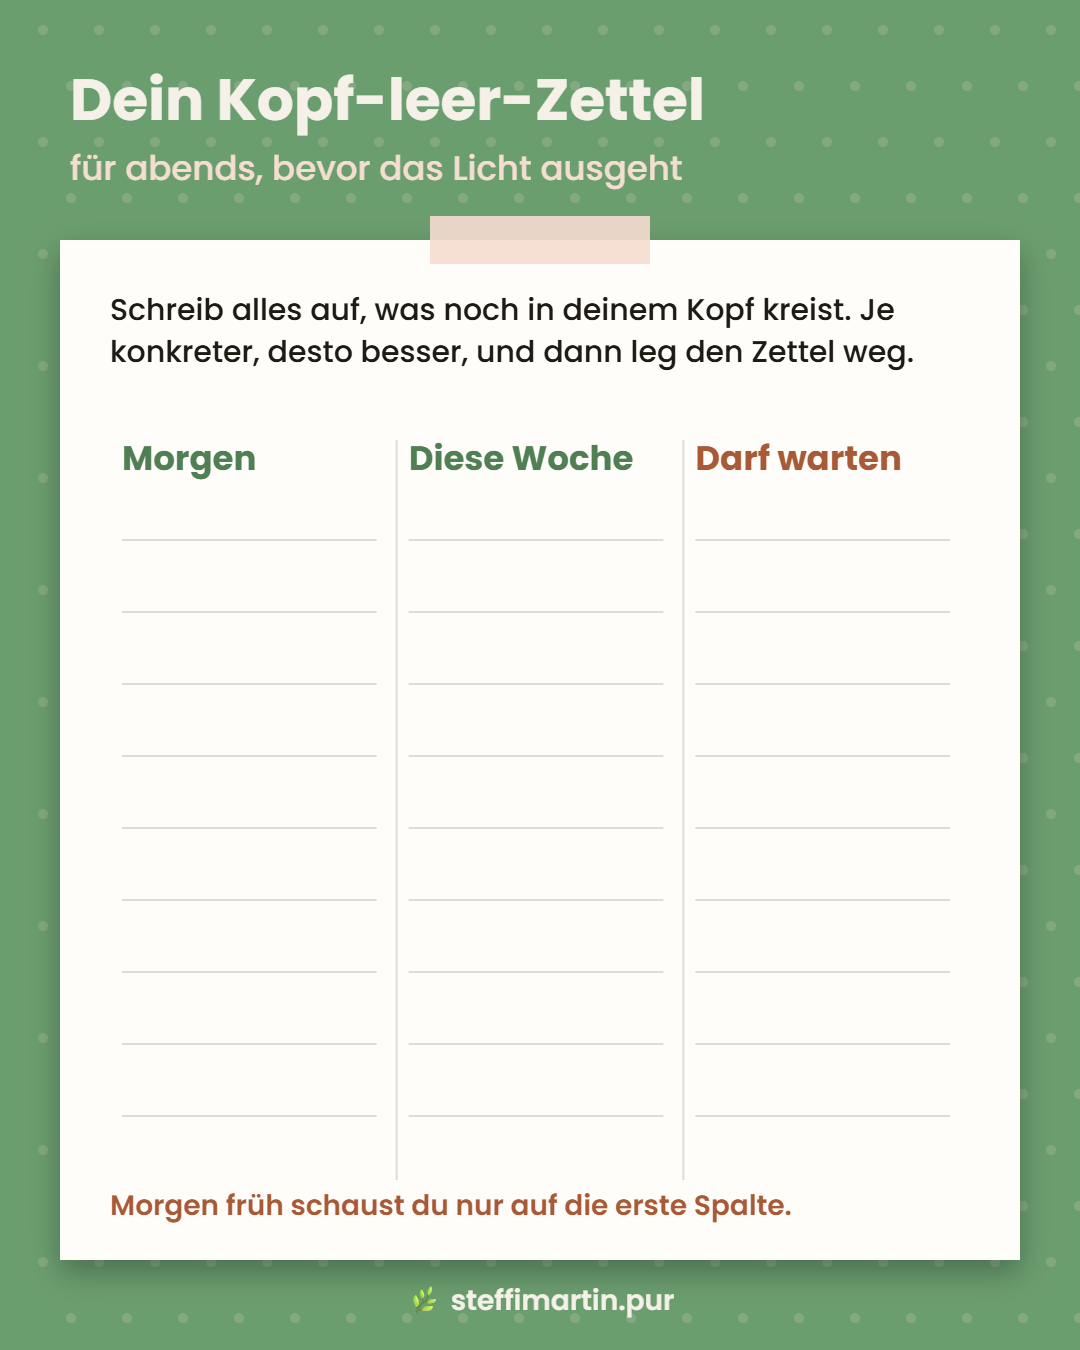
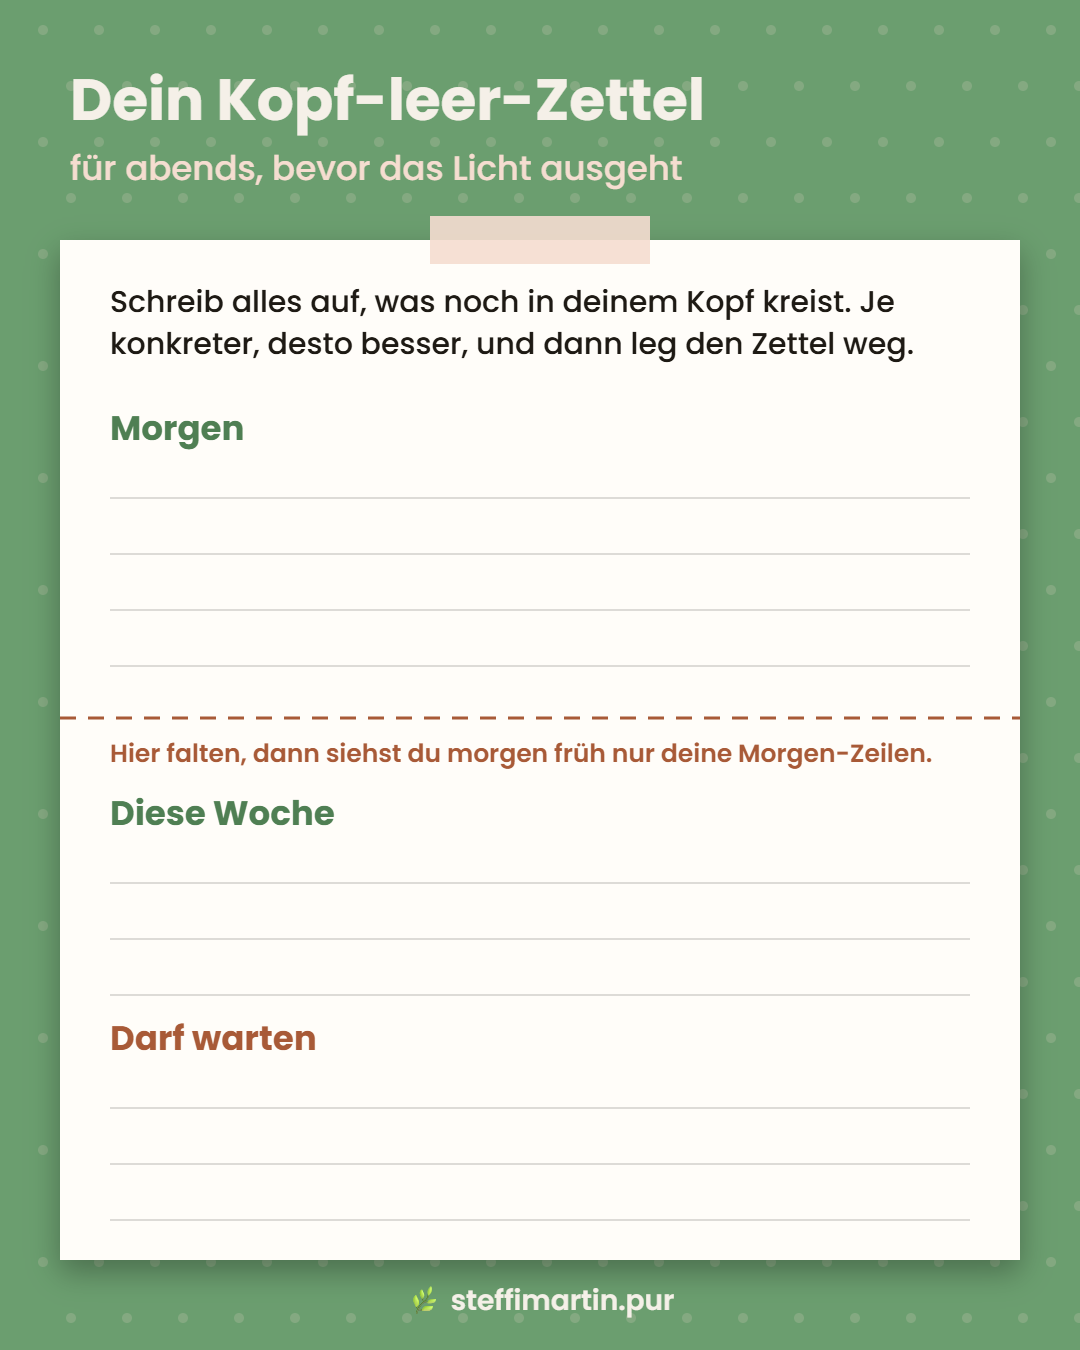
5-Minuten-Seite mit Warum-Abschnitten, Lieferkarten überarbeitet
Claude-Session: https://claude.ai/code/session_01L1QCDf8khhSqrmQoGRqyCH

diff --git a/5-minuten.html b/5-minuten.html
@@ -42,6 +42,8 @@ audio{display:block;width:100%;margin-bottom:14px}
 .weiter{border-left:5px solid var(--salbei);padding:4px 0 4px 14px;margin-top:16px}
 .btn{display:block;text-align:center;text-decoration:none;border-radius:16px;background:var(--terra-dk);color:#fff;font-size:16px;font-weight:600;padding:15px 18px;margin-top:14px}
 .btn:hover{background:#8f4c2e}
+.warum{margin-bottom:12px}
+.warum b{display:block;font-size:13px;letter-spacing:.5px;color:var(--salbei-dk);margin-bottom:2px}
 .leise summary{padding:14px 16px;min-height:0}
 .leise .titel{font-size:16px}
 .foot{text-align:center;font-size:13px;color:var(--muted);margin-top:22px}
@@ -75,6 +77,7 @@ audio{display:block;width:100%;margin-bottom:14px}
     <li>Jeden Tag bekommst du eine kleine Aufgabe für fünf Minuten.</li>
     <li>Zu jedem Tag kommt nach und nach ein kurzes Audio von mir dazu.</li>
     <li>Fang mit Tag 1 an und nimm dir dann jeden Tag den nächsten vor.</li>
+    <li>Wenn du mal einen Tag nicht schaffst, ist das völlig okay. Dann machst du einfach am nächsten weiter.</li>
   </ol>
 </section>
 
@@ -86,6 +89,7 @@ audio{display:block;width:100%;margin-bottom:14px}
     <img class="bild" loading="lazy" src="5min/tag1.jpg" alt="Wäscheständer auf der Veranda">
     <audio controls preload="none" data-audio=""></audio>
     <p>Heute schaust du einfach mal hin, wo deine freien Minuten eigentlich hingehen.</p>
+    <p class="warum"><b>WARUM DAS?</b>Du musst heute noch gar nichts ändern. Erst wenn du siehst, wo deine Minuten hingehen, kannst du entscheiden, ob sie dort bleiben sollen.</p>
     <div class="aufgabe"><b>DEINE FÜNF MINUTEN</b><p>Schreib heute Abend auf, was du alles „noch eben mal fix“ gemacht hast. Die Wäsche, die Spülmaschine, die Nachricht an die Kita, alles darf drauf.</p></div>
     <p class="vonmir"><b>Von mir:</b> Ich bin quasi schon morgens aufgestanden mit gefühlt 1000 To-Dos.</p>
   </div>
@@ -97,6 +101,7 @@ audio{display:block;width:100%;margin-bottom:14px}
     <img class="bild" loading="lazy" style="object-position:50% 47%" src="5min/tag2.jpg" alt="Steffi schreibt auf der Gartenschaukel in ihr Notizbuch">
     <audio controls preload="none" data-audio=""></audio>
     <p>Abends im Bett rattert dir der Kopf? Dann kommt heute mal alles da raus.</p>
+    <p class="warum"><b>WARUM DAS?</b>Dein Kopf geht alles immer wieder durch, damit auch ja nichts vergessen wird. Wenn es auf dem Zettel steht, ist es raus aus dem Kopf, aber eben nicht weg. Und morgen früh kannst du in Ruhe draufschauen, was davon wirklich dran ist.</p>
     <div class="aufgabe"><b>DEINE FÜNF MINUTEN</b><p>Nimm dir heute Abend einen Zettel oder dein Handy und schreib alles auf, was noch in deinem Kopf kreist: Termine, Brotdosen, was noch ansteht. Du schreibst es einfach runter, ganz ohne Ordnung.</p></div>
     <p class="vonmir"><b>Von mir:</b> Wenn ich merke, dass der Kopf rattert, dann habe ich mir angewöhnt, das einfach alles aufzuschreiben, damit es eben aus dem Kopf raus, aber nicht vergessen ist. Das hilft tatsächlich sehr gut.</p>
   </div>
@@ -108,6 +113,7 @@ audio{display:block;width:100%;margin-bottom:14px}
     <img class="bild" loading="lazy" src="5min/tag3.jpg" alt="Tasse Kakao mit einem Smiley aus Kakaopulver">
     <audio controls preload="none" data-audio=""></audio>
     <p>Heute wird's vielleicht ein bisschen ungewohnt.</p>
+    <p class="warum"><b>WARUM DAS?</b>Es wird nie alles erledigt sein. Wenn du mit deiner Pause wartest, bis es so weit ist, wartest du ewig. Und falls das schlechte Gewissen dabei mitkommt: Manchmal habe ich es immer noch, aber manchmal mache ich es auch trotzdem.</p>
     <div class="aufgabe"><b>DEINE FÜNF MINUTEN</b><p>Such dir heute ein einziges „noch eben mal fix“ aus und lass es bewusst und ohne schlechtes Gewissen liegen. Die fünf Minuten, die dabei frei werden, gehören dir. Setz dich hin und trink in Ruhe deinen Kaffee, oder schau einfach mal aus dem Fenster.</p></div>
     <p class="vonmir"><b>Von mir:</b> Ich bin ein Workaholic gewesen und ja, manchmal auch immer noch. Und wenn ich Sachen einfach mal liegen gelassen habe, hatte ich immer sehr schnell ein schlechtes Gewissen.</p>
   </div>
@@ -119,6 +125,7 @@ audio{display:block;width:100%;margin-bottom:14px}
     <img class="bild" loading="lazy" src="5min/tag4.jpg" alt="Sonnenaufgang über dem Garten">
     <audio controls preload="none" data-audio=""></audio>
     <p>Heute nimmst du dir ein paar Minuten, bevor der Tag dich hat.</p>
+    <p class="warum"><b>WARUM DAS?</b>Wenn der Tag erstmal läuft, bleibt meistens keine Minute mehr übrig. Für mich sind diese paar Minuten meine Notbremse, um nicht direkt mit Motzen, Meckern und schlechter Laune zu starten. Und sie müssen nicht perfekt sein.</p>
     <div class="aufgabe"><b>DEINE FÜNF MINUTEN</b><p>Nimm dir morgens, bevor alles losgeht, ein paar Minuten. Atme einmal tief durch, schreib drei Dinge auf, wofür du heute dankbar bist, und leg dir einen Fokus für den Tag fest.</p></div>
     <p class="vonmir"><b>Von mir:</b> Ich habe für mich das als Ritual festgestellt, ich nehme mir das morgens einfach, bevor die Kinder auch wach werden, um gut in den Tag zu starten, weil es einfach meine Laune auch besser macht und mir direkt etwas Positives am Morgen vor Augen führt.</p>
   </div>
@@ -130,6 +137,7 @@ audio{display:block;width:100%;margin-bottom:14px}
     <img class="bild" loading="lazy" style="object-position:50% 33%" src="5min/tag5.jpg" alt="Steffi cremt sich vor dem Spiegel das Gesicht ein">
     <audio controls preload="none" data-audio=""></audio>
     <p>Heute geht es um einen kleinen Moment nur für dich.</p>
+    <p class="warum"><b>WARUM DAS?</b>Für alle anderen nimmst du dir ganz selbstverständlich Zeit. Heute kommst du mal zuerst dran, ganz ohne großen Aufwand.</p>
     <div class="aufgabe"><b>DEINE FÜNF MINUTEN</b><p>Nimm dir heute fünf Minuten nur für deine Pflege, mit dem, was du eh schon da hast. Trag dir in Ruhe deine Gesichtscreme auf, oder creme dir mal ganz bewusst die Hände oder die Füße ein. Und schau dabei mal nicht aufs Handy.</p></div>
     <p class="vonmir"><b>Von mir:</b> Freie Minuten verbringe ich tatsächlich auch einfach mal mit meiner Pflegeroutine, um mir mal was zu gönnen, anstatt wieder irgendwelche Aufgaben zu erledigen.</p>
   </div>
@@ -141,6 +149,7 @@ audio{display:block;width:100%;margin-bottom:14px}
     <img class="bild" loading="lazy" style="object-position:50% 28%" src="5min/tag6.jpg" alt="Steffi sitzt lachend auf einer Holzbank">
     <audio controls preload="none" data-audio=""></audio>
     <p>Heute darf etwas einfacher werden.</p>
+    <p class="warum"><b>WARUM DAS?</b>Du musst nicht alles allein und nicht alles perfekt machen. Auf dich zu gucken gehört auch dazu, das darfst du dir ruhig erlauben.</p>
     <div class="aufgabe"><b>DEINE FÜNF MINUTEN</b><p>Überleg dir eine Sache von deiner Liste, die heute nicht perfekt sein muss. Vielleicht reicht ein schnelles Abendessen, oder die Wäsche wartet bis morgen. Und wenn es jemanden gibt, der dir etwas abnehmen kann, frag ruhig mal nach.</p></div>
     <p class="vonmir"><b>Von mir:</b> Wenn mein Akku leer ist, kann ich auch niemand anderem mehr helfen. Deshalb ist es wichtig, auf mich zu gucken.</p>
   </div>
@@ -152,6 +161,7 @@ audio{display:block;width:100%;margin-bottom:14px}
     <img class="bild" loading="lazy" style="object-position:50% 37%" src="5min/tag7.jpg" alt="Steffi mit Hund auf dem Feldweg">
     <audio controls preload="none" data-audio=""></audio>
     <p>Das waren jetzt sieben kleine Momente. Welcher hat dir am besten getan?</p>
+    <p class="warum"><b>WARUM DAS?</b>Ein kleiner Moment, der wirklich in deinen Alltag passt, reicht völlig. Und wenn du diese Woche auch nur einen davon für dich gefunden hast, ist das schon richtig viel.</p>
     <div class="aufgabe"><b>DEINE FÜNF MINUTEN</b><p>Schau zurück auf die Woche und such dir deinen Lieblingsmoment aus. Den planst du dir für die nächste Woche fest ein, so wie er in deinen Alltag passt.</p></div>
     <p class="vonmir"><b>Von mir:</b> Ich mache echt ungern Pausen. Das fällt mir immer noch schwer. Aber ich habe für mich festgestellt, dass Pausen wirklich wichtig sind, um auf Dauer durchzuhalten.</p>
     <div class="weiter">
